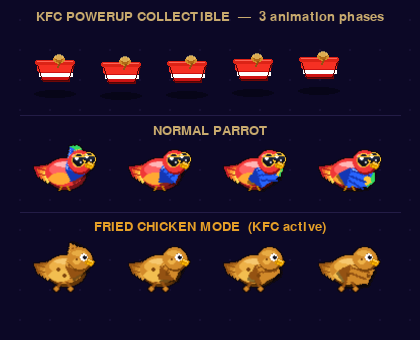
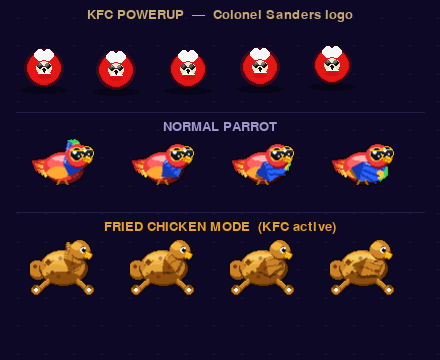
Redesign KFC powerup: Colonel Sanders badge + whole Thanksgiving chicken
Powerup sprite (_draw_kfc):
  - Red circular badge (replacing the bucket)
  - Colonel Sanders face: white puffy hair, cream face oval, round black
    glasses with bridge, vertical string tie + knot, white collar chevrons,
    red shirt band at bottom
  - Subtle pulsing red aura around the badge

Fried parrot (_build_fried_frame):
  - Now a whole fried Thanksgiving chicken instead of a fluffy chick
  - Large plump body oval with golden-brown batter skin, crispy dark patches,
    surface crack lines, breast highlight, sheen
  - Two thick drumstick legs splayed outward at the bottom with white bone tips
  - Stubby fried wing (shorter/chunkier than macaw wing, still animated)
  - Rounded tail-end blob on left
  - Small golden-brown head with round eye and beak

https://claude.ai/code/session_01QLmFwvsNm2jED6FYmdcLwB

diff --git a/game/parrot.py b/game/parrot.py
@@ -212,78 +212,103 @@ def get_parrot(frame_idx: int, tilt_deg: float) -> pygame.Surface:
 
 # ── Fried-chicken variant (KFC powerup) ──────────────────────────────────────
 
-_CRISPY_GOLD  = (210, 138,  42)
-_CRISPY_DARK  = (148,  82,  18)
-_CRISPY_LIGHT = (238, 178,  72)
-_CRISPY_SPOT  = (125,  68,  12)
+_CRISPY_GOLD  = (205, 132,  38)   # deep golden-brown batter
+_CRISPY_DARK  = (142,  78,  14)   # shadow / skin crack lines
+_CRISPY_LIGHT = (242, 182,  68)   # breast highlight
+_CRISPY_SPOT  = (118,  60,  10)   # dark crispy patches
 
 
 def _build_fried_wing(angle_deg):
-    w = pygame.Surface((50, 50), pygame.SRCALPHA)
-    pygame.draw.polygon(w, (0, 0, 0, 110),
-                        [(24, 26), (46, 14), (50, 30), (34, 44), (18, 40)])
-    pts = [(24, 24), (44, 13), (48, 28), (32, 42), (18, 36)]
+    """Stubby fried chicken wing — shorter and chubbier than the macaw wing."""
+    w = pygame.Surface((44, 44), pygame.SRCALPHA)
+    shadow = [(22, 22), (38, 13), (42, 26), (30, 38), (16, 34)]
+    pygame.draw.polygon(w, (0, 0, 0, 100), shadow)
+    pts = [(22, 20), (36, 12), (40, 25), (28, 36), (16, 32)]
     pygame.draw.polygon(w, _CRISPY_GOLD, pts)
-    pygame.draw.polygon(w, _CRISPY_DARK, [(24, 24), (32, 42), (18, 36)])
-    for px, py, pr in ((36, 20, 2), (44, 22, 2), (28, 34, 2)):
+    pygame.draw.polygon(w, _CRISPY_DARK, [(22, 20), (28, 36), (16, 32)])  # underside
+    # Crispy brown patches
+    for px, py, pr in ((32, 17, 2), (38, 23, 2), (24, 30, 2)):
         pygame.draw.circle(w, _CRISPY_SPOT, (px, py), pr)
-    pygame.draw.line(w, _CRISPY_DARK, (26, 25), (42, 18), 2)
-    pygame.draw.line(w, _CRISPY_DARK, (28, 30), (44, 25), 2)
-    pygame.draw.line(w, _CRISPY_LIGHT, (25, 25), (41, 15), 1)
+    # Skin lines
+    pygame.draw.line(w, _CRISPY_DARK,  (24, 21), (38, 16), 1)
+    pygame.draw.line(w, _CRISPY_DARK,  (26, 27), (40, 23), 1)
+    pygame.draw.line(w, _CRISPY_LIGHT, (23, 21), (37, 14), 1)
     return pygame.transform.rotate(w, angle_deg)
 
 
 def _build_fried_frame(wing_angle_deg):
+    """Whole fried Thanksgiving chicken — plump body, two drumstick legs, stubby wings."""
     surf = pygame.Surface((SPRITE_W, SPRITE_H), pygame.SRCALPHA)
 
-    # Tail — golden-brown crispy wedges instead of flowing feathers
-    for i, c in enumerate([(148, 82, 18), (178, 108, 28), (208, 138, 42), (228, 162, 58)]):
-        pts = [(2 + i*3, 26 + i*2), (14 + i, 24 + i),
-               (20 + i, 30 + i*2), (6 + i*3, 36 + i*2)]
-        pygame.draw.polygon(surf, c, pts)
-    pygame.draw.line(surf, _CRISPY_DARK, (4, 27), (18, 31), 1)
-    pygame.draw.line(surf, _CRISPY_DARK, (6, 33), (20, 35), 1)
+    # ── Rear / tail end — rounded bump on the left ───────────────────────────
+    _aaellipse(surf, _CRISPY_DARK,  ( 8, 36), 10,  9)   # shadow
+    _aaellipse(surf, _CRISPY_GOLD,  ( 7, 34),  9,  8)   # tail blob
+    pygame.draw.circle(surf, _CRISPY_SPOT, (5, 32), 2)
 
-    # Body shadow + base
-    _aaellipse(surf, (100, 55, 8),   (34, 35), 19, 14)
-    _aaellipse(surf, _CRISPY_GOLD,   (32, 32), 19, 14)
-    _aaellipse(surf, _CRISPY_LIGHT,  (30, 29), 13,  8)
-    _aaellipse(surf, (242, 190, 80), (28, 38), 12,  6)
-    for px, py, pr in ((26, 32, 2), (38, 28, 2), (32, 38, 2), (36, 34, 1)):
+    # ── Main body — large plump oval (the carcass) ───────────────────────────
+    _aaellipse(surf, (105, 55,  6),   (33, 34), 24, 17)  # deep shadow
+    _aaellipse(surf, _CRISPY_GOLD,    (32, 32), 22, 16)  # outer skin
+    _aaellipse(surf, _CRISPY_LIGHT,   (30, 27), 16, 10)  # breast highlight
+    _aaellipse(surf, (228, 165, 58),  (26, 38), 14,  8)  # lower belly warmth
+    _aaellipse(surf, _CRISPY_DARK,    (32, 43), 18,  6)  # bottom shadow
+
+    # Crispy skin patches (batter spots)
+    for px, py, pr in ((18, 28, 3), (36, 25, 2), (42, 32, 3),
+                       (22, 38, 2), (38, 38, 2), (28, 42, 2), (30, 24, 2)):
         pygame.draw.circle(surf, _CRISPY_SPOT, (px, py), pr)
-    sheen = pygame.Surface((28, 6), pygame.SRCALPHA)
-    pygame.draw.ellipse(sheen, (255, 225, 155, 120), sheen.get_rect())
-    surf.blit(sheen, (22, 21))
 
-    # Wing (fried variant)
+    # Skin surface lines (crackle texture)
+    pygame.draw.line(surf, _CRISPY_DARK, (14, 30), (22, 26), 1)
+    pygame.draw.line(surf, _CRISPY_DARK, (38, 26), (46, 30), 1)
+    pygame.draw.line(surf, _CRISPY_DARK, (16, 38), (24, 42), 1)
+    pygame.draw.line(surf, _CRISPY_DARK, (40, 38), (48, 34), 1)
+
+    # Top breast sheen
+    sheen = pygame.Surface((30, 6), pygame.SRCALPHA)
+    pygame.draw.ellipse(sheen, (255, 230, 155, 110), sheen.get_rect())
+    surf.blit(sheen, (17, 20))
+
+    # ── Drumstick legs — two thick legs splayed outward at the bottom ────────
+    # Left leg: body root → lower-left → ball joint
+    pygame.draw.line(surf, _CRISPY_DARK,  (19, 46), ( 7, 56), 5)
+    pygame.draw.line(surf, _CRISPY_GOLD,  (18, 45), ( 6, 55), 4)
+    pygame.draw.line(surf, _CRISPY_LIGHT, (17, 44), ( 5, 54), 1)
+    pygame.draw.circle(surf, _CRISPY_GOLD, ( 6, 55), 5)
+    pygame.draw.circle(surf, _CRISPY_DARK, ( 6, 55), 5, 1)
+    pygame.draw.circle(surf, _CRISPY_SPOT, ( 5, 53), 2)   # crispy end
+
+    # Right leg: body root → lower-right → ball joint
+    pygame.draw.line(surf, _CRISPY_DARK,  (45, 46), (57, 56), 5)
+    pygame.draw.line(surf, _CRISPY_GOLD,  (46, 45), (58, 55), 4)
+    pygame.draw.line(surf, _CRISPY_LIGHT, (47, 44), (59, 54), 1)
+    pygame.draw.circle(surf, _CRISPY_GOLD, (58, 55), 5)
+    pygame.draw.circle(surf, _CRISPY_DARK, (58, 55), 5, 1)
+    pygame.draw.circle(surf, _CRISPY_SPOT, (59, 53), 2)
+
+    # Drumstick bone tip (white nub at the very end)
+    pygame.draw.circle(surf, WHITE, ( 6, 55), 2)
+    pygame.draw.circle(surf, WHITE, (58, 55), 2)
+
+    # ── Wing (stubby, animated) ───────────────────────────────────────────────
     wing = _build_fried_wing(wing_angle_deg)
-    surf.blit(wing, wing.get_rect(center=(34, 28)).topleft)
+    surf.blit(wing, wing.get_rect(center=(34, 25)).topleft)
 
-    # Head
-    _aaellipse(surf, (118, 65, 10),  (48, 23), 12, 11)
-    _aaellipse(surf, _CRISPY_GOLD,   (47, 21), 12, 11)
-    _aaellipse(surf, _CRISPY_LIGHT,  (44, 24),  4,  3)
-    _aaellipse(surf, (232, 172, 68), (46, 16),  7,  3)
-    for px, py, pr in ((50, 18, 2), (44, 22, 1)):
-        pygame.draw.circle(surf, _CRISPY_SPOT, (px, py), pr)
+    # ── Head — small round bump at top-right (it's still a bird) ─────────────
+    _aaellipse(surf, (105, 55, 6),   (50, 17), 10, 9)
+    _aaellipse(surf, _CRISPY_GOLD,   (49, 15), 10, 9)
+    _aaellipse(surf, _CRISPY_LIGHT,  (46, 12),  6, 4)
+    pygame.draw.circle(surf, _CRISPY_SPOT, (52, 14), 2)
 
-    # Round eyes (no sunglasses — it's a chicken now)
-    pygame.draw.circle(surf, WHITE,       (51, 20), 4)
-    pygame.draw.circle(surf, (15, 15, 25),(52, 20), 2)
-    pygame.draw.circle(surf, WHITE,       (53, 18), 1)   # glint
+    # Round eyes
+    pygame.draw.circle(surf, WHITE,        (52, 16), 3)
+    pygame.draw.circle(surf, (15, 15, 25), (53, 16), 2)
+    pygame.draw.circle(surf, WHITE,        (54, 14), 1)
 
-    # Beak unchanged
-    beak_pts = [(55, 21), (61, 24), (58, 28), (52, 26)]
+    # Beak (unchanged — chickens have beaks too)
+    beak_pts = [(55, 17), (61, 20), (58, 24), (52, 22)]
     pygame.draw.polygon(surf, BIRD_BEAK,   beak_pts)
     pygame.draw.polygon(surf, BIRD_BEAK_D, beak_pts, 1)
-    pygame.draw.line(surf, (255, 230, 150), (55, 22), (59, 24), 1)
-    pygame.draw.line(surf, BIRD_BEAK_D,    (52, 24), (58, 25), 1)
-
-    # Drumstick legs
-    for lx, ly, ex, ey in ((28, 44, 24, 51), (34, 44, 38, 51)):
-        pygame.draw.line(surf, _CRISPY_DARK, (lx, ly), (ex, ey), 3)
-        pygame.draw.circle(surf, _CRISPY_GOLD, (ex, ey), 3)
-        pygame.draw.circle(surf, _CRISPY_DARK, (ex, ey), 3, 1)
+    pygame.draw.line(surf, (255, 230, 150), (55, 18), (59, 20), 1)
 
     return surf
 

diff --git a/game/entities.py b/game/entities.py
@@ -317,68 +317,67 @@ class PowerUp:
 
 
     def _draw_kfc(self, surf):
+        """Colonel Sanders face badge — simplified KFC logo."""
         cx = int(self.x)
         cy = int(self.y + math.sin(self.pulse * 0.9) * 2.5)
-        r = MUSHROOM_R
+        r = MUSHROOM_R + 2   # slightly larger badge
 
         # Drop shadow
         sh_w = r * 3
         sh = pygame.Surface((sh_w, 8), pygame.SRCALPHA)
         pygame.draw.ellipse(sh, (0, 0, 0, 90), sh.get_rect())
-        surf.blit(sh, (cx - sh_w // 2, cy + r + 4))
+        surf.blit(sh, (cx - sh_w // 2, cy + r + 2))
 
-        # KFC bucket — classic red trapezoid (wider at top, narrower at bottom)
-        bw_t = r + 4   # half-width at top
-        bw_b = r - 1   # half-width at bottom
-        bh   = r + 3   # bucket height
-        bucket_pts = [
-            (cx - bw_t, cy - bh // 2),
-            (cx + bw_t, cy - bh // 2),
-            (cx + bw_b, cy + bh // 2),
-            (cx - bw_b, cy + bh // 2),
-        ]
-        pygame.draw.polygon(surf, (110, 8, 8),   [(p[0]+1, p[1]+1) for p in bucket_pts])  # shadow
-        pygame.draw.polygon(surf, (205, 18, 18), bucket_pts)  # red body
+        # Pulsing red aura (tight, no blob)
+        aura_a = max(0, min(255, int(40 + 25 * math.sin(self.pulse * 2))))
+        aura = pygame.Surface(((r + 4) * 2, (r + 4) * 2), pygame.SRCALPHA)
+        pygame.draw.circle(aura, (220, 15, 15, aura_a), (r + 4, r + 4), r + 4)
+        surf.blit(aura, (cx - r - 4, cy - r - 4))
 
-        # Lighter highlight strip on upper third
-        hi_pts = [
-            (cx - bw_t,     cy - bh // 2),
-            (cx + bw_t,     cy - bh // 2),
-            (cx + bw_t - 1, cy - bh // 2 + 7),
-            (cx - bw_t + 1, cy - bh // 2 + 7),
-        ]
-        pygame.draw.polygon(surf, (245, 48, 35), hi_pts)
+        # Red circular badge background
+        pygame.draw.circle(surf, (90, 4, 4),    (cx, cy), r + 2)  # dark outline
+        pygame.draw.circle(surf, (210, 18, 18), (cx, cy), r + 1)
+        pygame.draw.circle(surf, (228, 22, 22), (cx, cy), r)
 
-        # White "KFC" stripe across the middle of the bucket
-        stripe_y = cy + 1
-        pygame.draw.rect(surf, (255, 255, 255),
-                         (cx - bw_t + 2, stripe_y, (bw_t - 1) * 2, 4))
+        # White hair — two puffy lobes above the face
+        hair_y = cy - r + 3
+        pygame.draw.circle(surf, (248, 248, 248), (cx - 4, hair_y), 6)
+        pygame.draw.circle(surf, (248, 248, 248), (cx + 4, hair_y), 6)
+        pygame.draw.ellipse(surf, (248, 248, 248),
+                            (cx - 8, hair_y - 3, 16, 8))
 
-        # Bucket outline
-        pygame.draw.polygon(surf, (80, 5, 5), bucket_pts, 1)
+        # Cream face oval
+        pygame.draw.ellipse(surf, (245, 225, 200),
+                            (cx - 8, cy - 7, 16, 14))
 
-        # Lid — slightly wider flat rectangle on top
-        lid_w = bw_t + 2
-        lid_rect = pygame.Rect(cx - lid_w, cy - bh // 2 - 4, lid_w * 2, 5)
-        pygame.draw.rect(surf, (220, 35, 22), lid_rect, border_radius=2)
-        pygame.draw.rect(surf, (255, 100, 85),
-                         (lid_rect.x + 2, lid_rect.y + 1, lid_rect.width - 4, 1))
+        # Black round glasses — two circles + bridge
+        pygame.draw.circle(surf, (20, 20, 20), (cx - 4, cy - 2), 3)
+        pygame.draw.circle(surf, (20, 20, 20), (cx + 4, cy - 2), 3)
+        # Lens glint
+        pygame.draw.circle(surf, (80, 80, 80), (cx - 5, cy - 3), 2)
+        pygame.draw.circle(surf, (80, 80, 80), (cx + 3, cy - 3), 2)
+        # Bridge between lenses
+        pygame.draw.line(surf, (60, 60, 60), (cx - 1, cy - 2), (cx + 1, cy - 2), 1)
 
-        # Chicken drumstick peeking out from the top of the bucket
-        drum_cx = cx + 4
-        drum_cy = cy - bh // 2 - 5
-        pygame.draw.ellipse(surf, (210, 140, 42),
-                            (drum_cx - 6, drum_cy - 4, 12, 9))
-        pygame.draw.circle(surf, (175, 105, 22), (drum_cx, drum_cy), 4)
-        pygame.draw.line(surf, (148, 82, 18),
-                         (drum_cx, drum_cy + 3),
-                         (drum_cx - 2, drum_cy + 8), 2)
+        # Black string tie — vertical line from chin
+        pygame.draw.line(surf, (15, 15, 15), (cx, cy + 2), (cx, cy + 7), 1)
+        pygame.draw.circle(surf, (15, 15, 15), (cx, cy + 2), 2)  # knot
 
-        # Animated golden shimmer on the drumstick
-        pulse_a = max(0, min(255, int(140 + 90 * math.sin(self.pulse * 2.5))))
-        chip = pygame.Surface((10, 6), pygame.SRCALPHA)
-        pygame.draw.ellipse(chip, (255, 225, 130, pulse_a), chip.get_rect())
-        surf.blit(chip, (drum_cx - 5, drum_cy - 5))
+        # White collar / shirt bottom — two angled white wedges
+        pygame.draw.polygon(surf, (245, 245, 245),
+                            [(cx - 6, cy + 5), (cx - 2, cy + 2), (cx, cy + 7)])
+        pygame.draw.polygon(surf, (245, 245, 245),
+                            [(cx + 6, cy + 5), (cx + 2, cy + 2), (cx, cy + 7)])
+
+        # Red accent on shirt (below collar)
+        pygame.draw.ellipse(surf, (210, 18, 18),
+                            (cx - 7, cy + 6, 14, 5))
+
+        # Subtle face sheen (animated)
+        sheen_a = max(0, min(255, int(60 + 40 * math.sin(self.pulse * 1.8))))
+        sheen = pygame.Surface((10, 4), pygame.SRCALPHA)
+        pygame.draw.ellipse(sheen, (255, 240, 220, sheen_a), sheen.get_rect())
+        surf.blit(sheen, (cx - 5, cy - 6))
 
 
 # Back-compat alias — some callers (e.g. snapshot/playtest scripts) still say Mushroom.
